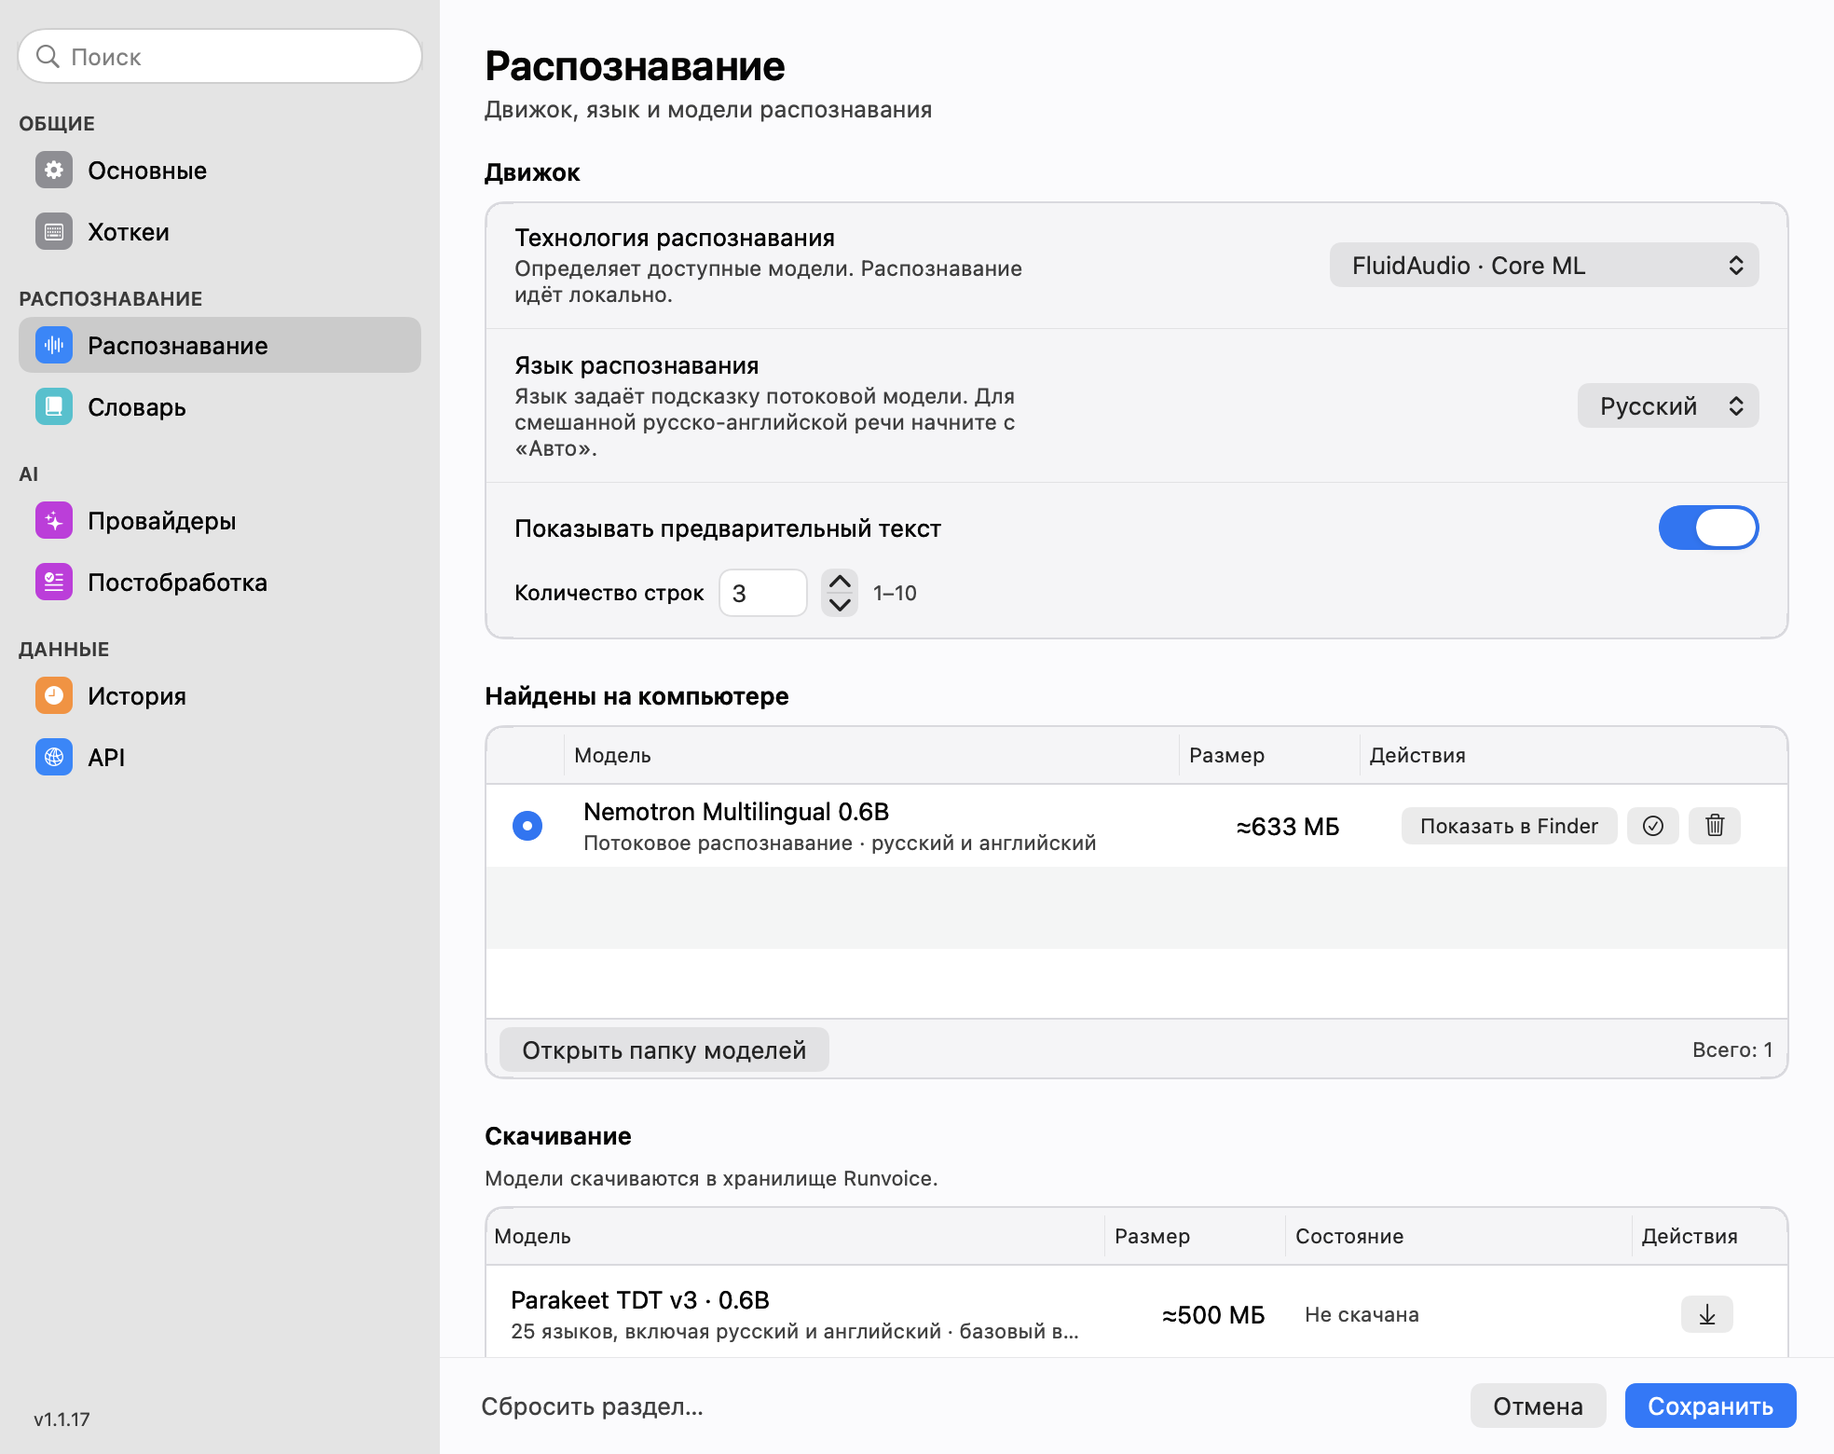
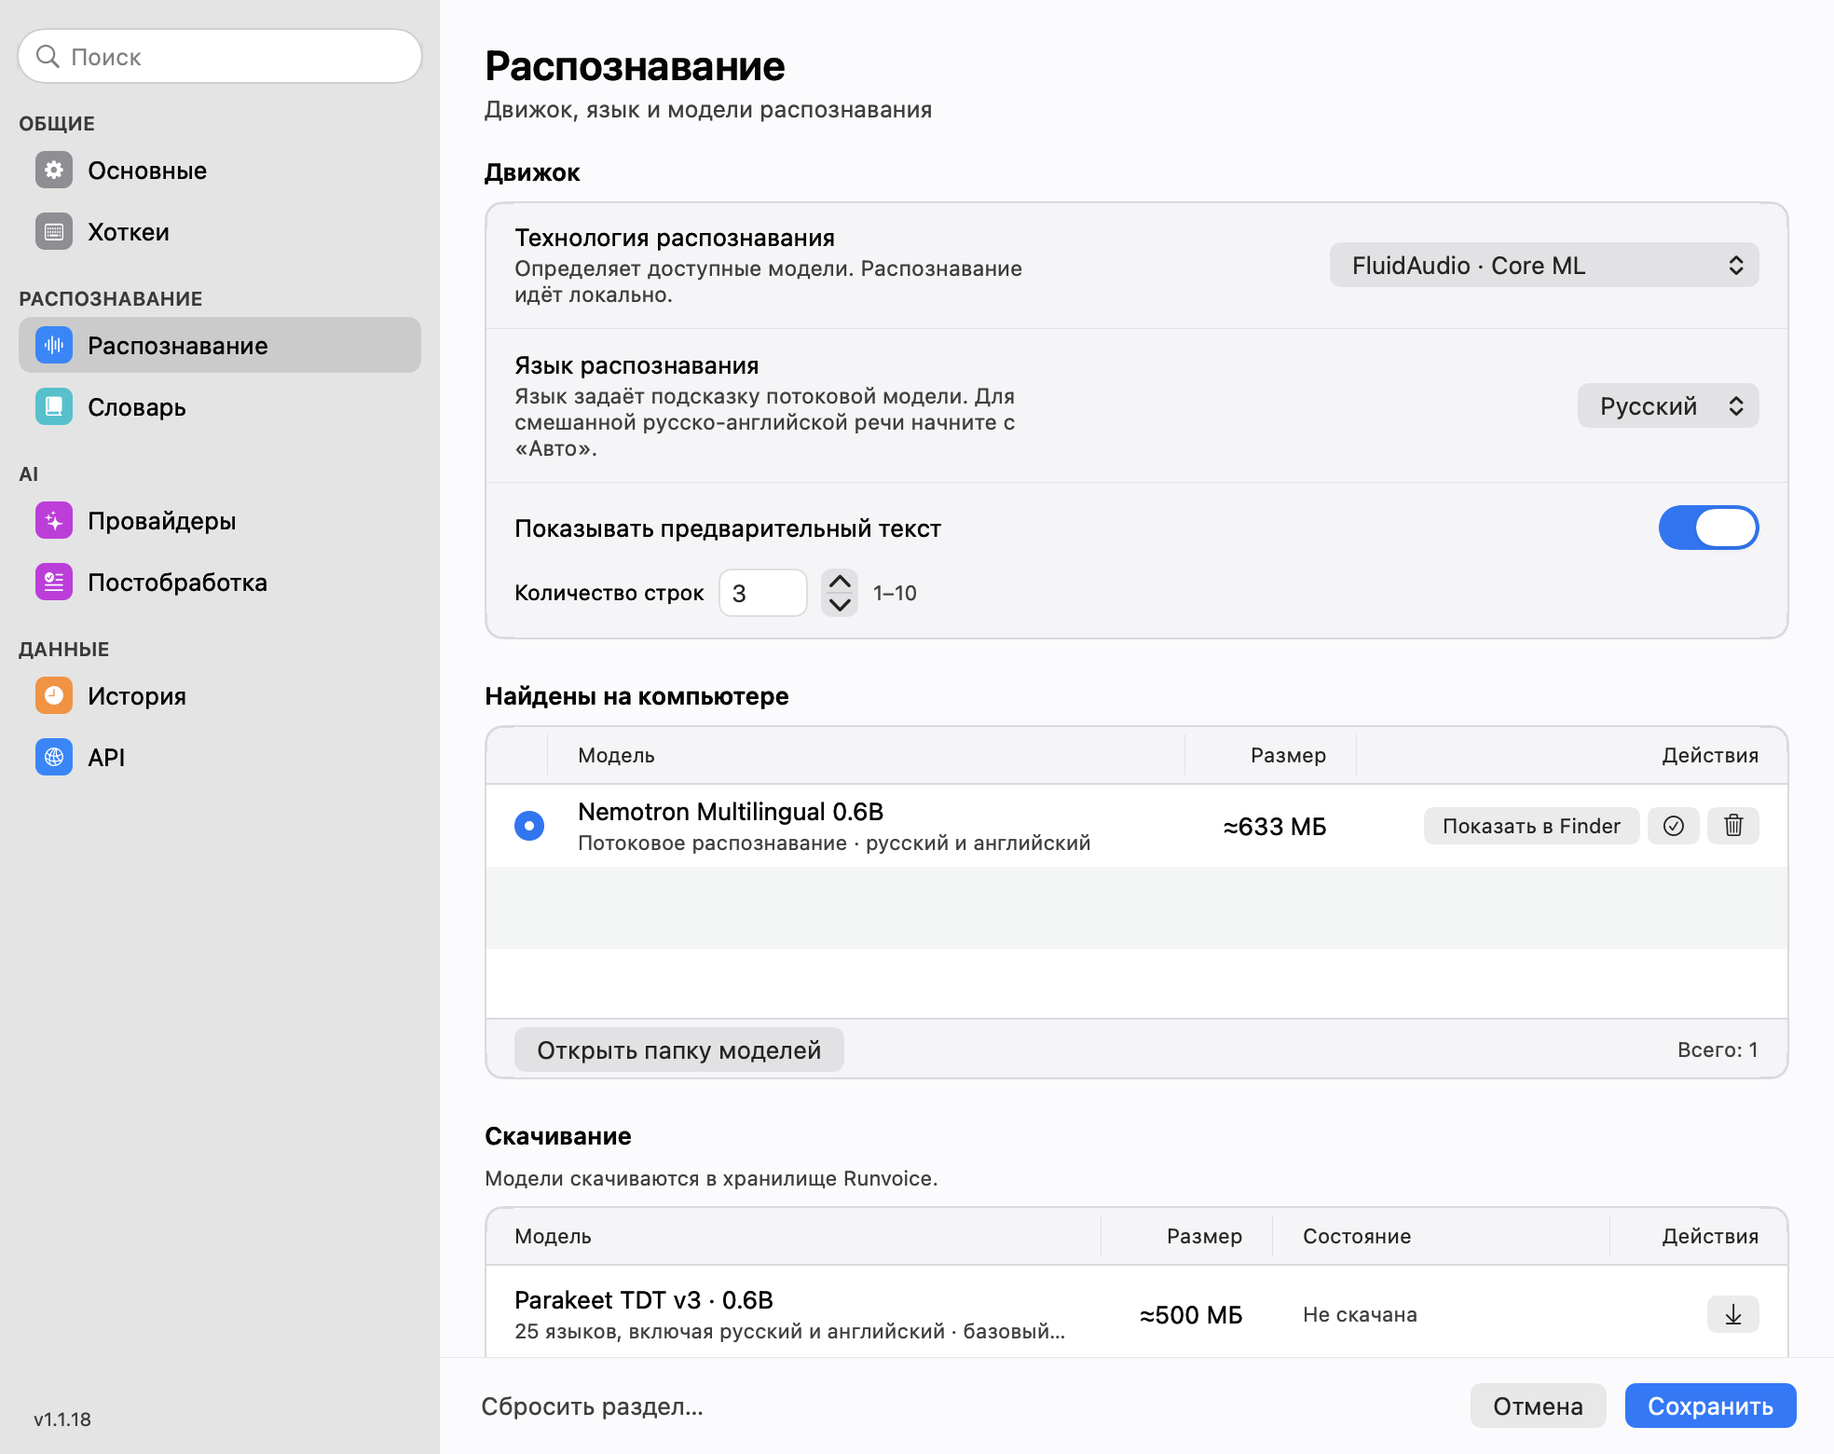
Runvoice 1.1.18: выровнять таблицы и текстовые карточки
Синхронизировать боковые отступы и положение заголовков,
счётчиков и действий. Уплотнить кнопки в строках моделей
и обновить нативные снимки настроек.

diff --git a/app/UI/SettingsWindow.swift b/app/UI/SettingsWindow.swift
@@ -962,7 +962,7 @@ final class SettingsWindow: NSWindowController, NSWindowDelegate {
             .init(id: "name", title: "Профиль", width: 286),
             .init(id: "type", title: "Тип", width: 125, fixed: true),
             .init(id: "model", title: "Модель", width: 165, fixed: true),
-            .init(id: "actions", title: "", width: 44, fixed: true)
+            .init(id: "actions", title: "", width: 60, fixed: true)
         ], height: 190, actions: [add, removeProvidersButton], empty: "Провайдеры не добавлены")
         root.addArrangedFullWidth(SettingsSection(title: "AI-провайдеры",
                                                   note: "Используемые профили защищены. Профиль и связанный ключ удаляются после сохранения настроек.",
@@ -987,11 +987,11 @@ final class SettingsWindow: NSWindowController, NSWindowDelegate {
                                                 target: self, action: #selector(providerMenu(_:)))
         menu.identifier = NSUserInterfaceItemIdentifier(provider.id.uuidString)
         return [
-            SettingsDataTable.padded(check, centered: true),
+            SettingsDataTable.padded(check, layout: .leading),
             SettingsDataTable.padded(SettingsDataTable.label(provider.displayTitle)),
             SettingsDataTable.padded(SettingsDataTable.label(provider.typeTitle)),
             SettingsDataTable.padded(SettingsDataTable.label(provider.model)),
-            SettingsDataTable.padded(menu, centered: true)
+            SettingsDataTable.padded(menu, layout: .trailing)
         ]
     }
 
@@ -1283,7 +1283,6 @@ final class SettingsWindow: NSWindowController, NSWindowDelegate {
         historyDetail.isEditable = false
         historyDetail.isSelectable = true
         historyDetail.font = .systemFont(ofSize: 12)
-        historyDetail.textContainerInset = NSSize(width: 6, height: 6)
         historyDetail.string = "Выберите запись в списке."
         let detailScroll = makeScroll(historyDetail)
         detailScroll.heightAnchor.constraint(equalToConstant: 130).isActive = true
@@ -1482,8 +1481,8 @@ final class SettingsWindow: NSWindowController, NSWindowDelegate {
         let local = SettingsDataTable("Найдены на компьютере", columns: [
             .init(id: "active", title: "", width: 34, fixed: true),
             .init(id: "model", title: "Модель", width: 300),
-            .init(id: "size", title: "Размер", width: 92, fixed: true),
-            .init(id: "actions", title: "Действия", width: 222, fixed: true)
+            .init(id: "size", title: "Размер", width: 92, fixed: true, headerAlignment: .right),
+            .init(id: "actions", title: "Действия", width: 232, fixed: true, headerAlignment: .right)
         ], rowHeight: 44, height: 157, actions: actions, empty: "Модели не найдены")
         local.showRows(whisper ? found.map(whisperModelCells) : installed.map(fluidModelCells))
         addSection(SettingsSection(title: "Найдены на компьютере", card: local))
@@ -1495,9 +1494,9 @@ final class SettingsWindow: NSWindowController, NSWindowDelegate {
 
         let catalog = SettingsDataTable("Скачивание", columns: [
             .init(id: "model", title: "Модель", width: 340),
-            .init(id: "size", title: "Размер", width: 92, fixed: true),
+            .init(id: "size", title: "Размер", width: 92, fixed: true, headerAlignment: .right),
             .init(id: "status", title: "Состояние", width: 181, fixed: true),
-            .init(id: "actions", title: "Действия", width: 76, fixed: true)
+            .init(id: "actions", title: "Действия", width: 96, fixed: true, headerAlignment: .right)
         ], rowHeight: 52, height: 182, empty: "Все совместимые модели скачаны")
         if whisper {
             let names = Set(found.map(\.fileName))
@@ -1553,25 +1552,23 @@ final class SettingsWindow: NSWindowController, NSWindowDelegate {
         let finder = SettingsText.secondaryButton("Показать в Finder", target: self, action: #selector(revealModel(_:)))
         finder.identifier = NSUserInterfaceItemIdentifier(path)
         finder.controlSize = .small
-        let verify: NSView
+        var buttons = [finder]
         if fluid {
             let busy = downloadingFluidModel?.rawValue == id
             let button = modelControl(busy ? "xmark.circle" : "checkmark.circle",
                                       busy ? "Отменить проверку" : "Проверить", id, #selector(downloadFluidModel(_:)))
             button.isEnabled = busy || fluidDownload == nil
-            verify = button
-        } else {
-            verify = NSView()
-            verify.widthAnchor.constraint(equalToConstant: 28).isActive = true
+            buttons.append(button)
         }
         let delete = modelControl("trash", "Удалить модель…", id,
                                   fluid ? #selector(deleteFluidModel(_:)) : #selector(deleteModel(_:)))
         delete.contentTintColor = .systemRed
         delete.isEnabled = !fluid || downloadingFluidModel?.rawValue != id
-        let actions = NSStackView(views: [finder, verify, delete])
+        buttons.append(delete)
+        let actions = NSStackView(views: buttons)
         actions.alignment = .centerY
-        actions.spacing = 5
-        return SettingsDataTable.padded(actions, centered: true)
+        actions.spacing = 4
+        return SettingsDataTable.padded(actions, layout: .trailing)
     }
 
     private func whisperModelCells(_ model: WhisperModelFile) -> [NSView] {
@@ -1579,7 +1576,7 @@ final class SettingsWindow: NSWindowController, NSWindowDelegate {
         let name = model.catalogModel?.experimental == true ? title + " · экспериментальная" : title
         let radio = modelChoice(name, id: model.path, selected: model.path == selectedModelPath, action: #selector(selectModel(_:)))
         return [
-            SettingsDataTable.padded(radio, centered: true),
+            SettingsDataTable.padded(radio, layout: .leading),
             modelText(name, model.isManaged ? "Хранилище Runvoice" : "Внешний файл · " + model.directory, isPath: true),
             SettingsDataTable.padded(SettingsDataTable.label(model.sizeText, alignment: .right)),
             installedActions(path: model.path, id: model.path, fluid: false)
@@ -1594,7 +1591,7 @@ final class SettingsWindow: NSWindowController, NSWindowDelegate {
         if fluidErrors[model] != nil { status.textColor = .systemOrange }
         if busy { fluidStatuses[model] = status }
         return [
-            SettingsDataTable.padded(radio, centered: true),
+            SettingsDataTable.padded(radio, layout: .leading),
             modelText(model.title, model.detail, status: status),
             SettingsDataTable.padded(SettingsDataTable.label(model.estimatedSize, alignment: .right)),
             installedActions(path: FluidModelStore.directory(for: model).path, id: model.rawValue, fluid: true)
@@ -1655,7 +1652,7 @@ final class SettingsWindow: NSWindowController, NSWindowDelegate {
         if noSpace && !busy { button.toolTip = "Для загрузки нужно \(model.sizeText) плюс запас 200 МБ." }
         let title = model.experimental ? model.title + " · экспериментальная" : model.title
         return [modelText(title, model.note), SettingsDataTable.padded(SettingsDataTable.label(model.sizeText, alignment: .right)),
-                status.cell, SettingsDataTable.padded(button, centered: true)]
+                status.cell, SettingsDataTable.padded(button, layout: .trailing)]
     }
 
     private func fluidDownloadCells(_ model: FluidModel) -> [NSView] {
@@ -1671,7 +1668,7 @@ final class SettingsWindow: NSWindowController, NSWindowDelegate {
         button.isEnabled = fluidDownload == nil || busy
         return [modelText(model.title, model.detail),
                 SettingsDataTable.padded(SettingsDataTable.label(model.estimatedSize, alignment: .right)),
-                status.cell, SettingsDataTable.padded(button, centered: true)]
+                status.cell, SettingsDataTable.padded(button, layout: .trailing)]
     }
 
     @objc private func openModelsFolder() {
@@ -2004,7 +2001,8 @@ final class SettingsWindow: NSWindowController, NSWindowDelegate {
         textView.isAutomaticQuoteSubstitutionEnabled = false
         textView.isAutomaticDashSubstitutionEnabled = false
         textView.isAutomaticTextReplacementEnabled = false
-        textView.textContainerInset = NSSize(width: 11, height: 8)
+        textView.textContainerInset = NSSize(width: SettingsStyle.rowHorizontalInset, height: 8)
+        textView.textContainer?.lineFragmentPadding = 0
         textView.isVerticallyResizable = true
         textView.isHorizontallyResizable = false
         textView.autoresizingMask = [.width]

diff --git a/app/UI/SettingsComponents.swift b/app/UI/SettingsComponents.swift
@@ -753,8 +753,9 @@ private final class SettingsTableHeaderView: NSTableHeaderView {
             if rect.intersects(dirtyRect) {
                 let title = column.headerCell.attributedStringValue
                 let height = ceil(title.size().height)
-                let titleRect = NSRect(x: rect.minX + 5, y: floor(rect.midY - height / 2),
-                                       width: rect.width - 10, height: height)
+                let inset = SettingsStyle.rowHorizontalInset
+                let titleRect = NSRect(x: rect.minX + inset, y: floor(rect.midY - height / 2),
+                                       width: rect.width - 2 * inset, height: height)
                 title.draw(with: titleRect, options: [.usesLineFragmentOrigin, .truncatesLastVisibleLine])
                 if index < tableView.numberOfColumns - 1 {
                     SettingsStyle.rowSeparator.setFill()
@@ -773,7 +774,10 @@ final class SettingsDataTable: NSView, NSTableViewDataSource, NSTableViewDelegat
         let title: String
         var width: CGFloat = 120
         var fixed = false
+        var headerAlignment: NSTextAlignment = .left
     }
+
+    enum CellLayout { case fill, leading, trailing }
 
     let table = NSTableView()
     private let count = NSTextField(labelWithString: "")
@@ -785,18 +789,19 @@ final class SettingsDataTable: NSView, NSTableViewDataSource, NSTableViewDelegat
          header: NSView? = nil, actions: [NSButton] = [], empty: String = "Нет записей") {
         super.init(frame: .zero)
         table.setAccessibilityLabel(title)
-        table.style = .fullWidth
+        table.style = .plain
         table.backgroundColor = .controlBackgroundColor
         table.usesAlternatingRowBackgroundColors = true
         table.gridStyleMask = []
         table.allowsColumnReordering = false
         table.rowHeight = rowHeight
-        table.intercellSpacing = NSSize(width: 5, height: 0)
+        table.intercellSpacing = .zero
         table.columnAutoresizingStyle = .uniformColumnAutoresizingStyle
         table.headerView = SettingsTableHeaderView(frame: NSRect(x: 0, y: 0, width: 0, height: SettingsStyle.tablePanelHeight))
         for value in columns {
             let column = NSTableColumn(identifier: NSUserInterfaceItemIdentifier(value.id))
             column.title = value.title
+            column.headerCell.alignment = value.headerAlignment
             column.width = value.width
             column.minWidth = value.fixed ? value.width : 90
             column.maxWidth = value.fixed ? value.width : 1000
@@ -832,9 +837,9 @@ final class SettingsDataTable: NSView, NSTableViewDataSource, NSTableViewDelegat
         footer.alignment = .centerY
         footer.spacing = 7
         let card = SettingsCard()
-        if let header { card.addRow(SettingsContentRow(header, verticalInset: 6, horizontalInset: 8)) }
+        if let header { card.addRow(SettingsContentRow(header, verticalInset: 6)) }
         card.addRow(scroll)
-        let footerRow = SettingsContentRow(footer, verticalInset: 4, horizontalInset: 8)
+        let footerRow = SettingsContentRow(footer, verticalInset: 4)
         footerRow.heightAnchor.constraint(greaterThanOrEqualToConstant: SettingsStyle.tablePanelHeight - 1).isActive = true
         card.addRow(SettingsSeparatorView(height: 1, color: SettingsStyle.cardBorder), separated: false)
         card.addRow(footerRow, separated: false)
@@ -889,16 +894,17 @@ final class SettingsDataTable: NSView, NSTableViewDataSource, NSTableViewDelegat
         return button
     }
 
-    static func padded(_ view: NSView, horizontal: CGFloat = 8, centered: Bool = false) -> NSView {
+    static func padded(_ view: NSView, layout: CellLayout = .fill) -> NSView {
         let cell = NSTableCellView()
         cell.addSubview(view)
         view.translatesAutoresizingMaskIntoConstraints = false
+        let inset = SettingsStyle.rowHorizontalInset
         var constraints = [view.centerYAnchor.constraint(equalTo: cell.centerYAnchor)]
-        if centered {
-            constraints.append(view.centerXAnchor.constraint(equalTo: cell.centerXAnchor))
-        } else {
-            constraints += [view.leadingAnchor.constraint(equalTo: cell.leadingAnchor, constant: horizontal),
-                            view.trailingAnchor.constraint(equalTo: cell.trailingAnchor, constant: -horizontal)]
+        if layout != .trailing {
+            constraints.append(view.leadingAnchor.constraint(equalTo: cell.leadingAnchor, constant: inset))
+        }
+        if layout != .leading {
+            constraints.append(view.trailingAnchor.constraint(equalTo: cell.trailingAnchor, constant: -inset))
         }
         NSLayoutConstraint.activate(constraints)
         return cell

diff --git a/app/UI/SpeechVocabularyEditor.swift b/app/UI/SpeechVocabularyEditor.swift
@@ -82,7 +82,7 @@ final class SpeechVocabularyEditor: NSView, NSTableViewDataSource, NSTableViewDe
             let check = NSButton(checkboxWithTitle: "", target: self, action: #selector(toggleMark(_:)))
             check.state = marked.contains(row) ? .on : .off
             check.setAccessibilityLabel("Выбрать термин \(rows[row])")
-            return SettingsDataTable.padded(check, centered: true)
+            return SettingsDataTable.padded(check, layout: .leading)
         }
         let identifier = NSUserInterfaceItemIdentifier("vocabulary-term")
         let cell = tableView.makeView(withIdentifier: identifier, owner: self) as? NSTableCellView
@@ -100,8 +100,8 @@ final class SpeechVocabularyEditor: NSView, NSTableViewDataSource, NSTableViewDe
             cell.addSubview(field)
             cell.textField = field
             NSLayoutConstraint.activate([
-                field.leadingAnchor.constraint(equalTo: cell.leadingAnchor, constant: 8),
-                field.trailingAnchor.constraint(equalTo: cell.trailingAnchor, constant: -8),
+                field.leadingAnchor.constraint(equalTo: cell.leadingAnchor, constant: SettingsStyle.rowHorizontalInset),
+                field.trailingAnchor.constraint(equalTo: cell.trailingAnchor, constant: -SettingsStyle.rowHorizontalInset),
                 field.centerYAnchor.constraint(equalTo: cell.centerYAnchor),
             ])
         }
@@ -162,7 +162,8 @@ final class SpeechVocabularyEditor: NSView, NSTableViewDataSource, NSTableViewDe
         input.isAutomaticQuoteSubstitutionEnabled = false
         input.isAutomaticDashSubstitutionEnabled = false
         input.isAutomaticSpellingCorrectionEnabled = false
-        input.textContainerInset = NSSize(width: 11, height: 8)
+        input.textContainerInset = NSSize(width: SettingsStyle.rowHorizontalInset, height: 8)
+        input.textContainer?.lineFragmentPadding = 0
         input.isVerticallyResizable = true
         input.isHorizontallyResizable = false
         input.autoresizingMask = [.width]

diff --git a/CHANGELOG.md b/CHANGELOG.md
@@ -7,6 +7,13 @@
 
 ## Не выпущено
 
+## [1.1.18]
+
+### Настройки
+
+- Заголовки таблиц выровнены по содержимому столбцов. Шапки, строки, футеры и текстовые карточки используют общий боковой отступ 16 pt. Счётчики записей и кнопки рядом с текстовыми полями выровнены по одной правой направляющей.
+- Действия в строках моделей собраны компактнее. В Whisper кнопка «Показать в Finder» и корзина стоят рядом. В FluidAudio между ними находится кнопка проверки модели.
+
 ## [1.1.17]
 
 ### Память
